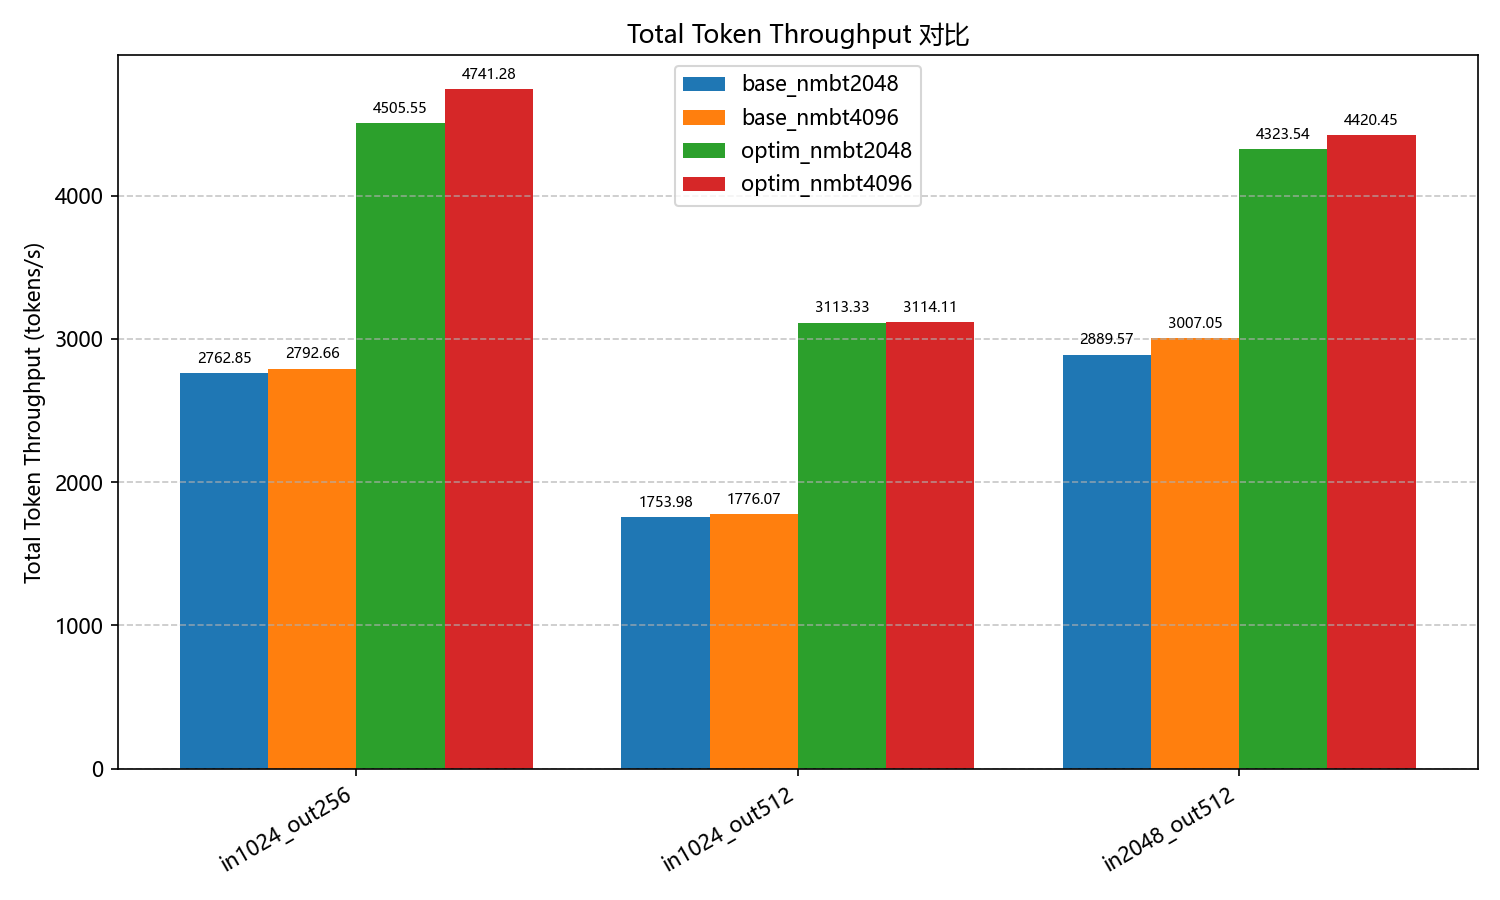
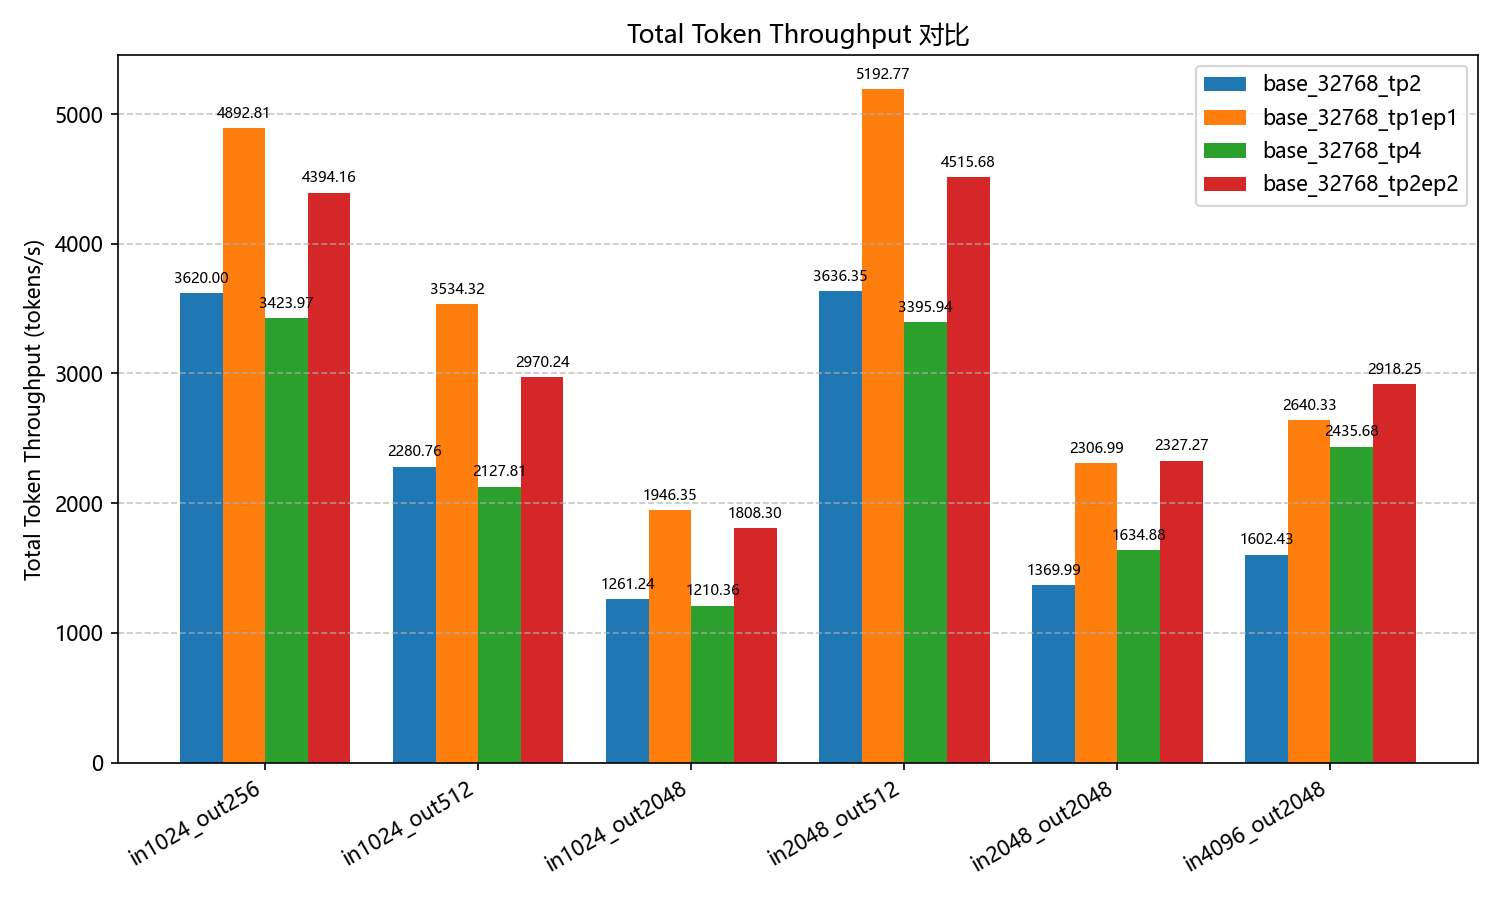
补充更多测试

diff --git a/npu/vllm-ascend-v0.13.0/qwen3_30B_A3B/README.md b/npu/vllm-ascend-v0.13.0/qwen3_30B_A3B/README.md
@@ -1,18 +1,22 @@
 #### 1. vllm-ascend-v0.13.0 qwen3-30B-A3B优化镜像使用
 
-##### 使用场景
-硬件: 910B4
-架构: x86
-os: linux
-优化场景: prefill长度相对decode长度较短(如prefill2048/decode512)
+##### 设备配套
+| 配置项 | 值 |
+| :--- | :--- |
+| **推理卡** | 910B4 |
+| **CANN 版本** | 8.5.0 |
+| **架构** | x86 |
+| **OS** | Linux |
 
-##### 参考测试结果
-Throughput
+##### 测试配置
+| 参数 | 值 |
+| :--- | :--- |
+| 数据集 | GSM8k |
+| num_prompts | 256 |
+| batch_size | 128 |
+| req_rate | 8 |
+###### Throughput
 ![图片加载失败](./pic/Total_Token_Throughput.png "")
-TPOT
-![图片加载失败](./pic/TPOT.png "")
-TTFT
-![图片加载失败](./pic/TTFT.png "")
 
 ##### 使用方法
 1. 拉取镜像
@@ -118,4 +122,3 @@ vllm serve $MODEL \
 --async-scheduling
 ```
 
-aisbench复现参数: GSM8k数据集 num_prompts=256 batch_size=128 req_rate=8 输入输出长度见图

diff --git a/README.md b/README.md
@@ -3,8 +3,11 @@
 
 #### 支持优化:
 ##### 1. npu 910B4 -- vllm-ascendv0.13.0 -- qwen3-30B-A3B 
-| 场景 | 吞吐提升 |
-| :--- | :---: |
-| in1024 / out256 | **约 70%** |
-| in1024 / out512 | **约 75%** |
-| in2048 / out512 | **约 47%** |
+| 场景 | tp2提升 | tp4提升 |
+| :--- | :---: | :---: |
+| in1024 / out256 | **约 35%** | **约 28%** |
+| in1024 / out512 | **约 55%** | **约 40%** |
+| in1024 / out2048 | **约 54%** | **约 49%** |
+| in2048 / out512 | **约 43%** | **约 33%** |
+| in2048 / out2048 | **约 68%** | **约 42%** |
+| in4096 / out2048 | **约 65%** | **约 20%** |